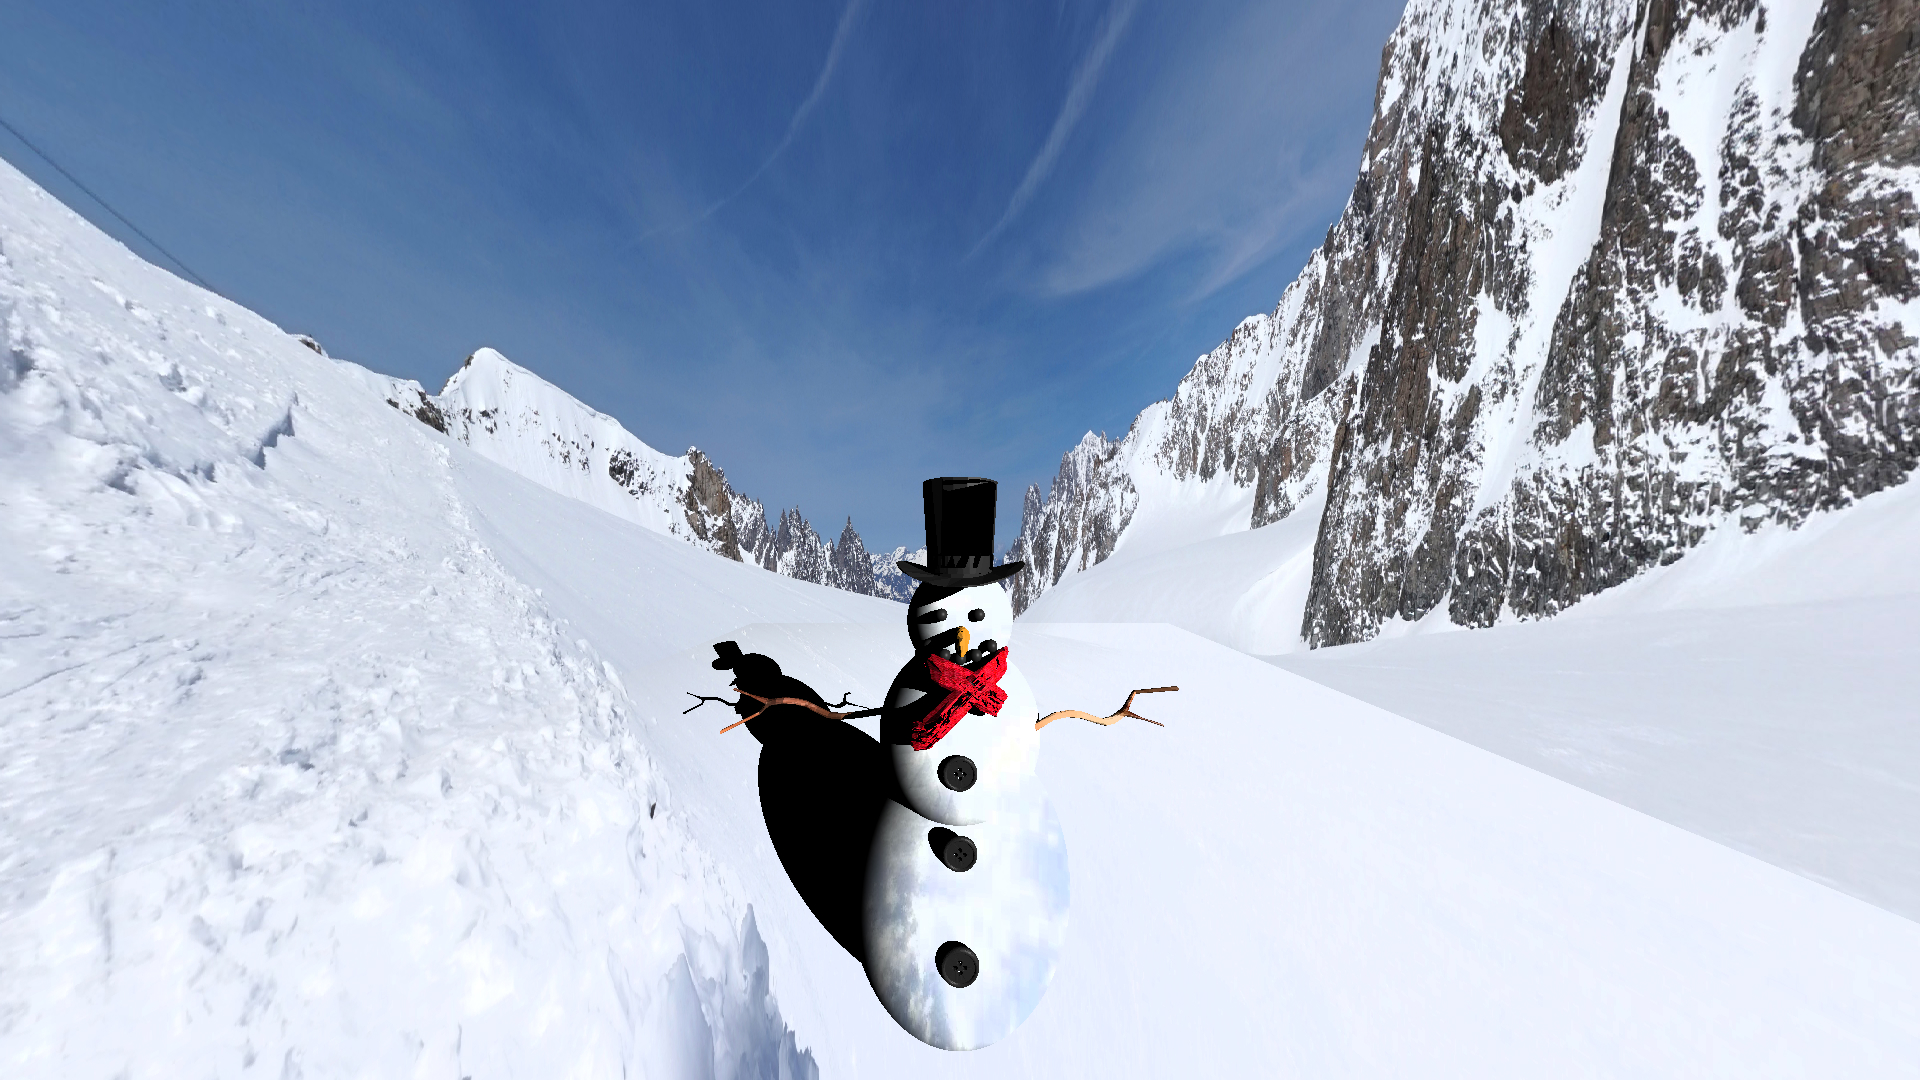
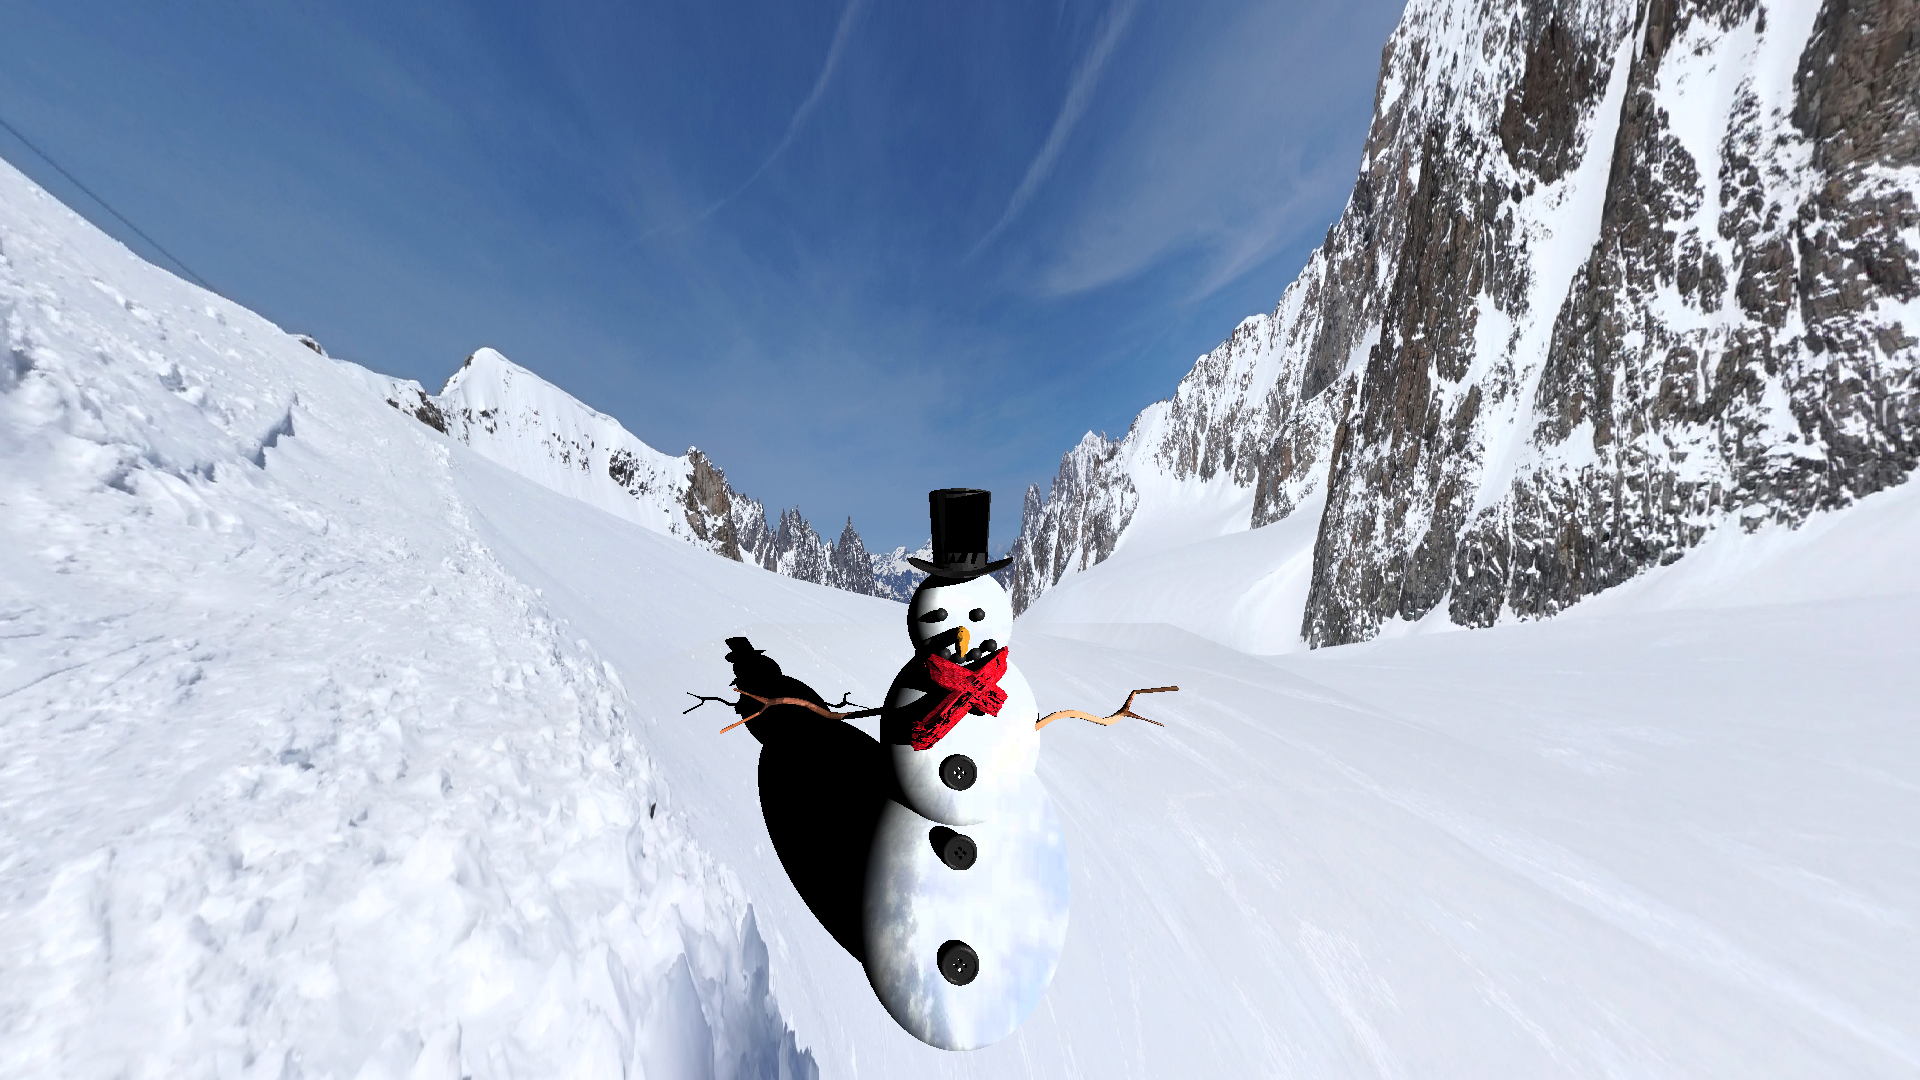
Commit final

Changed region(s): [[0.5625, 0.5806, 0.8125, 0.7333], [0.4688, 0.4278, 0.5312, 0.5806], [0.375, 0.5806, 0.4062, 0.6111]]

diff --git a/tinyraytracer.cpp b/tinyraytracer.cpp
@@ -18,6 +18,10 @@
 #include "model.h"
 #include "geometry.h"
 
+// Taille de l'image de sortie
+#define OUT_WIDTH 3840
+#define OUT_HEIGHT 2160
+
 int envmap_width, envmap_height;
 int snow_width, snow_height;
 int wood_width, wood_height;
@@ -157,6 +161,13 @@ Vec3f refract(const Vec3f &I, const Vec3f &N, const float eta_t, const float eta
     float eta = eta_i / eta_t;
     float k = 1 - eta*eta*(1 - cosi*cosi);
     return k<0 ? Vec3f(1,0,0) : I*eta + N*(eta*cosi - sqrtf(k)); // k<0 = total reflection, no ray to refract. I refract it anyways, this has no physical meaning
+}
+
+float distance_vector(Vec3f point1, Vec3f point2) {
+    float deltaX = point2.x - point1.x;
+    float deltaY = point2.y - point1.y;
+    float deltaZ = point2.z - point1.z;
+    return std::sqrt(deltaX * deltaX + deltaY * deltaY + deltaZ * deltaZ);
 }
 
 bool scene_intersect(const Vec3f &orig, const Vec3f &dir, const std::vector<Sphere> &spheres, Vec3f &hit, Vec3f &N, Material &material) {
@@ -344,11 +355,6 @@ bool scene_intersect(const Vec3f &orig, const Vec3f &dir, const std::vector<Sphe
             checkerboard_dist = d;
             hit = pt;
             N = Vec3f(0,1,0);
-            //material.diffuse_color = (int(.5*hit.x+1000) + int(.5*hit.z)) & 1 ? Vec3f(.3, .3, .3) : Vec3f(.3, .2, .1);
-            //material = Material(1.5, Vec4f(0.0,  0.5, 0.1, 0.8), Vec3f(0.6, 0.7, 0.8),  125.);
-            //applyTexture(dir, snow, wood_width, wood_height, material);
-
-            //applyTexture(dir, snow, snow_width, snow_height, material);
 
             // On calcul des 2 angles de direction du rayon pour l'envmap
             float angle_x = atan2(dir.z, dir.x);
@@ -363,36 +369,21 @@ bool scene_intersect(const Vec3f &orig, const Vec3f &dir, const std::vector<Sphe
             int y = std::min((int)(coord_y*envmap_height), envmap_height-1);
             Vec3f textureTmp = envmap[x+y*envmap_width];
 
-            // on affiche les valeurs de hit
-            //std::cout << "x : " << hit.x << " y : " << hit.y << " z : " << hit.z << std::endl;
-            // On crée un materiel par rapport au pixel recuperé sur l'image de la texture
-            material.diffuse_color = Vec3f(textureTmp.x + 0.2, textureTmp.y + 0.2, textureTmp.z + 0.2);
+            // Calculer la valeur normalisée de pt.x dans la plage [0, 1]
+            float normalizedX = (d - (-30)) / (0 - (-30));
 
-            // On applicque une couleur transparente 
-            //material = Material(1.5, Vec4f(0.0,  0.5, 0.1, 0.8), Vec3f(0.6, 0.7, 0.8),  125.);
-
-            /*if ((int(.5*hit.x+1000) + int(.5*hit.z)) & 1) {
-                material.diffuse_color = Vec3f(.5, .5, .1);
+            // Ajuster la plage de sortie de 0 à 0.1
+            float coeff = 0.0;
+            if (pt.x < 0.0) {
+                coeff = normalizedX * 0.1;
             } else {
-                // ---- Calculs pour texturer l'objet ---- //
-                // On calcul des 2 angles de direction du rayon
-                /*float angle_x = atan2(dir.z, dir.x);
-                float angle_y = asin(dir.y);
+                coeff = normalizedX * 0.1 - pt.x/120;
+            }
 
-                // On calcul les coordonnées de l'envmap en fonction des angles en normalisant entre 0 et 1
-                float coord_x = (angle_x + M_PI)/(2*M_PI);
-                float coord_y = 1-(angle_y + M_PI/2)/M_PI; // On inverse l'image verticalement
-
-                // On recupère les coordonnées sur l'image
-                int x = std::min((int)(coord_x*width), width-1);
-                int y = std::min((int)(coord_y*height), height-1);
-                Vec3f textureTmp = snow[x+y*width];*/
-
-                /*applyTexture(dir, snow, snow_width, snow_height, material);
-            }*/
+            // On crée un materiel par rapport au pixel recuperé sur l'image de la texture
+            material.diffuse_color = Vec3f(textureTmp.x + coeff, textureTmp.y + coeff, textureTmp.z + coeff);
         }
     }
-
 
     return  std::min({spheres_dist, hatModel_dist, leftArm_dist, rightArm_dist, scarf_dist, buttons_dist, mouth_dist, noz_dist, eyes_dist, checkerboard_dist}) < 1000;
 }
@@ -441,24 +432,23 @@ Vec3f cast_ray(const Vec3f &orig, const Vec3f &dir, const std::vector<Sphere> &s
 }
 
 void render(const std::vector<Sphere> &spheres, const std::vector<Light> &lights) {
-    const int   width    = 800;
-    const int   height   = 450;
     const float fov_deg  = 240.0; // FOV en degrés
     const float fov_rad  = fov_deg * M_PI / 180.0; // Conversion degrés -> radians
-    float dir_z = height / (2. * tan(fov_rad / 2.));
+    //const float fov_rad = 4.8; // FOV en radians
+    float dir_z = OUT_HEIGHT / (2. * tan(fov_rad / 2.));
 
     // On affiche la profondeur de champ
     std::cout << "Profondeur de champ : " << dir_z << std::endl;
 
-    std::vector<unsigned char> pixmap(width * height * 3);
+    std::vector<unsigned char> pixmap(OUT_WIDTH * OUT_HEIGHT * 3);
 
     // Affichage du pourcentage de chargement
     float index = 0;
     #pragma omp parallel for
-    for (size_t j = 0; j < height; j++) { // actual rendering loop
-        for (size_t i = 0; i < width; i++) {
-            float dir_x = (i + 0.5) - width / 2.;
-            float dir_y = -(j + 0.5) + height / 2.; // this flips the image at the same time
+    for (size_t j = 0; j < OUT_HEIGHT; j++) { // actual rendering loop
+        for (size_t i = 0; i < OUT_WIDTH; i++) {
+            float dir_x = (i + 0.5) - OUT_WIDTH / 2.;
+            float dir_y = -(j + 0.5) + OUT_HEIGHT / 2.; // this flips the image at the same time
 
             // Calcul de la couleur du pixel
             Vec3f color = cast_ray(Vec3f(0, 0, 0), Vec3f(dir_x, dir_y, dir_z).normalize(), spheres, lights);
@@ -467,7 +457,7 @@ void render(const std::vector<Sphere> &spheres, const std::vector<Light> &lights
             float max_component = std::max({color[0], color[1], color[2]});
 
             // Conversion et sauvegarde dans le pixmap
-            size_t index_pixmap = (j * width + i) * 3;
+            size_t index_pixmap = (j * OUT_WIDTH + i) * 3;
             for (size_t k = 0; k < 3; k++) {
                 float channel = max_component > 1 ? color[k] / max_component : color[k];
                 pixmap[index_pixmap + k] = static_cast<unsigned char>(255 * std::max(0.f, std::min(1.f, channel)));
@@ -477,13 +467,13 @@ void render(const std::vector<Sphere> &spheres, const std::vector<Light> &lights
         // Affichage du pourcentage de chargement
         #pragma omp atomic
         index++;
-        afficherProgression("Rendu de l'image", index, height);
+        afficherProgression("Rendu de l'image", index, OUT_HEIGHT);
     }
 
     std::cout << std::endl; // Saut de ligne à la fin
 
     // Écriture de l'image dans un fichier
-    stbi_write_jpg("out.jpg", width, height, 3, pixmap.data(), 100);
+    stbi_write_jpg("out.jpg", OUT_WIDTH, OUT_HEIGHT, 3, pixmap.data(), 100);
 
     std::cout << "Terminé. Fichier enregistré : /build/out.jpg" << std::endl;
 }
@@ -507,15 +497,15 @@ int main() {
     spheres.push_back(Sphere(Vec3f(posX, posY + 4.5, posZ), size, white)); // tete
 
     // Définition de la bouche
-    mouth.push_back(Sphere(Vec3f(posX - 0.5, posY + 4.3, posZ + size),0.1 , black_rubber));
-    mouth.push_back(Sphere(Vec3f(posX - 0.25, posY + 4.15, posZ + size),0.1 , black_rubber));
-    mouth.push_back(Sphere(Vec3f(posX, posY + 4.1, posZ + size),0.1 , black_rubber));
-    mouth.push_back(Sphere(Vec3f(posX + 0.25, posY + 4.15, posZ + size),0.1 , black_rubber));
-    mouth.push_back(Sphere(Vec3f(posX + 0.5, posY + 4.3, posZ + size),0.1 , black_rubber));
+    mouth.push_back(Sphere(Vec3f(posX - 0.5, posY + 4.3, posZ + size - 0.02),0.1 , black_rubber));
+    mouth.push_back(Sphere(Vec3f(posX - 0.25, posY + 4.15, posZ + size - 0.05),0.1 , black_rubber));
+    mouth.push_back(Sphere(Vec3f(posX, posY + 4.1, posZ + size - 0.05),0.1 , black_rubber));
+    mouth.push_back(Sphere(Vec3f(posX + 0.25, posY + 4.15, posZ + size - 0.05),0.1 , black_rubber));
+    mouth.push_back(Sphere(Vec3f(posX + 0.5, posY + 4.3, posZ + size - 0.02),0.1 , black_rubber));
 
     // Définition des yeux
-    eyes.push_back(Sphere(Vec3f(posX - 0.3, posY + 4.8, posZ + size), 0.1, black_rubber)); // oeil gauche
-    eyes.push_back(Sphere(Vec3f(posX + 0.3, posY + 4.8, posZ + size), 0.1, black_rubber)); // oeil droits
+    eyes.push_back(Sphere(Vec3f(posX - 0.3, posY + 4.8, posZ + size - 0.02), 0.1, black_rubber)); // oeil gauche
+    eyes.push_back(Sphere(Vec3f(posX + 0.3, posY + 4.8, posZ + size - 0.02), 0.1, black_rubber)); // oeil droits
 
     // Définition des boutons
     Model btn1 = buttonModel;
@@ -525,9 +515,9 @@ int main() {
 
     // Position des boutons
     btn1.translate(posX - 0.25, posY + 3.4,posZ + size*2 - 0.8); // milieu
-    btn2.translate(posX - 0.25, posY + 2.4, posZ + size*2 - 0.5); // milieu
-    btn3.translate(posX - 0.25, posY + 1.25, posZ + size*2 - 0.5); // bas
-    btn4.translate(posX - 0.25, posY + 0.25, posZ + size*2 - 0.05); // bas
+    btn2.translate(posX - 0.25, posY + 2.4, posZ + size*2 - 0.52); // milieu
+    btn3.translate(posX - 0.25, posY + 1.25, posZ + size*2 - 0.52); // bas
+    btn4.translate(posX - 0.25, posY + 0.25, posZ + size*2 - 0.07); // bas
 
     // Ajout des boutons dans le vecteur
     buttons.push_back(btn1);
@@ -536,7 +526,7 @@ int main() {
     buttons.push_back(btn4);
 
     // position du chapeau
-    hatModel.translate(posX - size, posY + 5.4, posZ);
+    hatModel.translate(posX - size, posY + 5.4, posZ - 1.0);
 
     // position du bras gauche
     leftArmModel.translate(posX - size * 4.5, posY, posZ);

diff --git a/README.md b/README.md
@@ -1,14 +1,35 @@
 # Compilation
-```sh
-git clone https://github.com/Boubix88/DM-RDV.git
-cd DM-RDV
-mkdir build
-cd build
-cmake ..
-make
-```
+> [!IMPORTANT]
+> ```sh
+> git clone https://github.com/Boubix88/DM-RDV.git
+> cd DM-RDV
+> mkdir build
+> cd build
+> cmake ..
+> make
+> ```
 
-# Résultats
+# Description
+> [!NOTE]
+>Le bonhomme de neige est constitué de :
+> - Un corps avec 3 sphères codée en c++, texturées avec une texture de neige.
+> - Une bouche constituée de 3 sphères c++ noire.
+> - Un nez constitué d'une carotte en .obj recouverte d'une texture de carotte.
+> - Deux yeux qui sont des sphères c++ noire.
+> - Un chapeau en .obj noir.
+> - Des boutons en .obj noir.
+> - Une echarpe en .obj texturée avec une texture de laine.
+
+> [!NOTE]
+> Ce code est conçu sur la base du [Tinyratracer](https://github.com/ssloy/tinyraytracer/tree/homework_assignment).
+
+> [!TIP]
+> La taille de l'image de sortie peut être changée au début du fichier tinyratracer.cpp : l22 et l23.
+
+> [!WARNING]
+> Plus la résolution de sortie est élevée, plus le temps de rendu est long.
+
+# Rendu
 Rendu 720p
 ![](https://raw.githubusercontent.com/Boubix88/DM-RDV/master/out/out_720.jpg)
 
